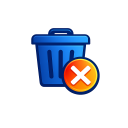
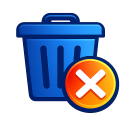
BeatSaverの対応

diff --git a/src/mybeatsaberstats/playlist_view.py b/src/mybeatsaberstats/playlist_view.py
@@ -108,8 +108,26 @@ class _SwapSortArrowStyle(QProxyStyle):
 
 class _PlaylistTableWidget(QTableWidget):
     def paintEvent(self, event) -> None:  # type: ignore[override]
-        super().paintEvent(event)
         selection_model = self.selectionModel()
+        if selection_model is not None:
+            rows = selection_model.selectedRows()
+            if rows:
+                active = self.window().isActiveWindow() if self.window() is not None else False
+                fill_color, _text_color = _NoFocusItemDelegate._selection_colors(active)
+                painter = QPainter(self.viewport())
+                painter.setPen(Qt.PenStyle.NoPen)
+                painter.setBrush(fill_color)
+                max_x = max(0, self.viewport().width() - 1)
+                for model_index in rows:
+                    row = model_index.row()
+                    if row < 0:
+                        continue
+                    top = self.rowViewportPosition(row)
+                    if top < 0:
+                        continue
+                    painter.drawRect(0, top, max_x, self.rowHeight(row))
+                painter.end()
+        super().paintEvent(event)
         if selection_model is None:
             return
         rows = selection_model.selectedRows()
@@ -143,22 +161,50 @@ class _NoFocusItemDelegate(QStyledItemDelegate):
             return QColor(103, 183, 238, 31), QColor("#0f172a")
         return QColor(123, 196, 246, 41), QColor("#0f172a")
 
+    @staticmethod
+    def _paint_cell_text(
+        painter: QPainter,
+        option: QStyleOptionViewItem,
+        index,
+        text_color: QColor,
+    ) -> None:
+        font_data = index.data(Qt.ItemDataRole.FontRole)
+        if isinstance(font_data, QFont):
+            painter.setFont(font_data)
+        else:
+            painter.setFont(painter.font())
+
+        painter.setPen(text_color)
+        display_text = str(index.data(Qt.ItemDataRole.DisplayRole) or "")
+        alignment_data = index.data(Qt.ItemDataRole.TextAlignmentRole)
+        if alignment_data is None:
+            alignment = int(Qt.AlignmentFlag.AlignLeft | Qt.AlignmentFlag.AlignVCenter)
+        else:
+            alignment = int(alignment_data)
+        text_rect = option.rect.adjusted(4, 0, -4, 0)  # type: ignore[attr-defined]
+        painter.drawText(text_rect, alignment, display_text)
+
     def paint(self, painter, option, index):  # type: ignore[override]
         opt = QStyleOptionViewItem(option)
         selected = bool(opt.state & QStyle.StateFlag.State_Selected)  # type: ignore[attr-defined]
         active = bool(opt.state & QStyle.StateFlag.State_Active)  # type: ignore[attr-defined]
-        fill: Optional[QColor] = None
+        background_brush = index.data(Qt.ItemDataRole.BackgroundRole)
+        foreground_brush = index.data(Qt.ItemDataRole.ForegroundRole)
+        text_color = opt.palette.color(QPalette.ColorRole.Text)  # type: ignore[attr-defined]
         if selected:
             fill, text_color = self._selection_colors(active)
-            opt.palette.setColor(QPalette.ColorRole.Text, text_color)  # type: ignore[attr-defined]
-            opt.palette.setColor(QPalette.ColorRole.HighlightedText, text_color)  # type: ignore[attr-defined]
-        opt.state &= ~QStyle.StateFlag.State_HasFocus  # type: ignore[attr-defined]
-        opt.state &= ~QStyle.StateFlag.State_Selected  # type: ignore[attr-defined]
-        if selected and fill is not None:
-            painter.save()
+        else:
+            fill = None
+            if hasattr(foreground_brush, "color"):
+                text_color = foreground_brush.color()
+
+        painter.save()
+        if hasattr(background_brush, "style") and background_brush.style() != Qt.BrushStyle.NoBrush:
+            painter.fillRect(opt.rect, background_brush)  # type: ignore[arg-type]
+        if fill is not None:
             painter.fillRect(opt.rect, fill)  # type: ignore[attr-defined]
-            painter.restore()
-        super().paint(painter, opt, index)
+        self._paint_cell_text(painter, opt, index, text_color)
+        painter.restore()
 
 
 class _PercentageBarDelegate(QStyledItemDelegate):
@@ -206,26 +252,27 @@ class _PercentageBarDelegate(QStyledItemDelegate):
         opt = QStyleOptionViewItem(option)
         selected = bool(opt.state & QStyle.StateFlag.State_Selected)  # type: ignore[attr-defined]
         active = bool(opt.state & QStyle.StateFlag.State_Active)  # type: ignore[attr-defined]
-        fill: Optional[QColor] = None
+        background_brush = index.data(Qt.ItemDataRole.BackgroundRole)
         if selected:
             fill, text_color = _NoFocusItemDelegate._selection_colors(active)
-            opt.palette.setColor(QPalette.ColorRole.Text, text_color)  # type: ignore[attr-defined]
-            opt.palette.setColor(QPalette.ColorRole.HighlightedText, text_color)  # type: ignore[attr-defined]
-        opt.state &= ~QStyle.StateFlag.State_HasFocus  # type: ignore[attr-defined]
-        opt.state &= ~QStyle.StateFlag.State_Selected  # type: ignore[attr-defined]
-        value = self._bar_value(index)
-        if value is None or not (self._max_value > 0):
-            if selected and fill is not None:
-                painter.save()
-                painter.fillRect(opt.rect, fill)  # type: ignore[attr-defined]
-                painter.restore()
-            super().paint(painter, opt, index)
-            return
+        else:
+            fill = None
+            foreground_brush = index.data(Qt.ItemDataRole.ForegroundRole)
+            if hasattr(foreground_brush, "color"):
+                text_color = foreground_brush.color()
+            else:
+                text_color = opt.palette.color(QPalette.ColorRole.Text)  # type: ignore[attr-defined]
 
-        if selected and fill is not None:
-            painter.save()
+        value = self._bar_value(index)
+        painter.save()
+        if hasattr(background_brush, "style") and background_brush.style() != Qt.BrushStyle.NoBrush:
+            painter.fillRect(opt.rect, background_brush)  # type: ignore[arg-type]
+        if fill is not None:
             painter.fillRect(opt.rect, fill)  # type: ignore[attr-defined]
+        if value is None or not (self._max_value > 0):
+            _NoFocusItemDelegate._paint_cell_text(painter, opt, index, text_color)
             painter.restore()
+            return
 
         if value <= self._min_value:
             ratio = 0.0
@@ -267,10 +314,16 @@ class _PercentageBarDelegate(QStyledItemDelegate):
         )
         if text_color_str is not None:
             text_color = QColor(text_color_str)
-            opt.palette.setColor(QPalette.ColorRole.Text, text_color)  # type: ignore[attr-defined]
-            opt.palette.setColor(QPalette.ColorRole.HighlightedText, text_color)  # type: ignore[attr-defined]
-
-        super().paint(painter, opt, index)
+        font_data = index.data(Qt.ItemDataRole.FontRole)
+        if isinstance(font_data, QFont):
+            font = QFont(font_data)
+        else:
+            font = QFont(painter.font())
+        if value >= self._max_value - 1e-3:
+            font.setBold(True)
+        painter.setFont(font)
+        _NoFocusItemDelegate._paint_cell_text(painter, opt, index, text_color)
+        painter.restore()
 
 # ──────────────────────────────────────────────────────────────────────────────
 # ソース定数
@@ -4432,20 +4485,7 @@ class PlaylistWindow(QMainWindow):
         self._bs_to_date.setDate(QDate.currentDate())
 
     def _playlist_table_stylesheet(self) -> str:
-        base = table_stylesheet()
-        if is_dark():
-            accent = (
-                "QTableWidget::item:selected { background-color: transparent; color: #e6f4ff; border: none; outline: 0; }"
-                "QTableWidget::item:selected:active { background-color: transparent; color: #e6f4ff; border: none; outline: 0; }"
-                "QTableWidget::item:selected:!active { background-color: transparent; color: #f2f8ff; border: none; outline: 0; }"
-            )
-        else:
-            accent = (
-                "QTableWidget::item:selected { background-color: transparent; color: #0f172a; border: none; outline: 0; }"
-                "QTableWidget::item:selected:active { background-color: transparent; color: #0f172a; border: none; outline: 0; }"
-                "QTableWidget::item:selected:!active { background-color: transparent; color: #0f172a; border: none; outline: 0; }"
-            )
-        return base + accent
+        return table_stylesheet()
 
     def _source_tabs_stylesheet(self) -> str:
         if is_dark():
@@ -6603,10 +6643,10 @@ class PlaylistWindow(QMainWindow):
     def _make_oneclick_button(self, entry: MapEntry) -> QWidget:
         button = QPushButton("")
         button.setIcon(QIcon(str(RESOURCES_DIR / "onclick_download.png")))
-        icon_edge = max(18, min(self._row_height - 6, 30))
+        icon_edge = max(26, min(self._row_height - 6, 30))
         button.setIconSize(QSize(icon_edge, icon_edge))
         button.setFixedWidth(34)
-        button.setFixedHeight(max(22, self._row_height))
+        button.setFixedHeight(max(28, self._row_height))
         button.setFlat(True)
         button.setStyleSheet(
             "QPushButton { padding: 0px; border: none; background: transparent; }"
@@ -6627,6 +6667,7 @@ class PlaylistWindow(QMainWindow):
         else:
             button.setToolTip("OneClickDownload")
         container = QWidget()
+        container.setProperty("mbss_cell_widget", True)
         container.setStyleSheet("background: transparent;")
         container.setFixedHeight(self._row_height)
         layout = QHBoxLayout(container)
@@ -6653,6 +6694,7 @@ class PlaylistWindow(QMainWindow):
         button.setEnabled(installed)
         button.setToolTip("Delete from Beat Saber" if installed else "Delete unavailable")
         container = QWidget()
+        container.setProperty("mbss_cell_widget", True)
         container.setStyleSheet("background: transparent;")
         container.setFixedHeight(self._row_height)
         layout = QHBoxLayout(container)
@@ -6672,6 +6714,7 @@ class PlaylistWindow(QMainWindow):
 
     def _make_cover_cell_widget(self, entry: MapEntry) -> QWidget:
         container = QWidget()
+        container.setProperty("mbss_cell_widget", True)
         container.setStyleSheet("background: transparent;")
         container.setAttribute(Qt.WidgetAttribute.WA_TransparentForMouseEvents, True)
         layout = QHBoxLayout(container)
